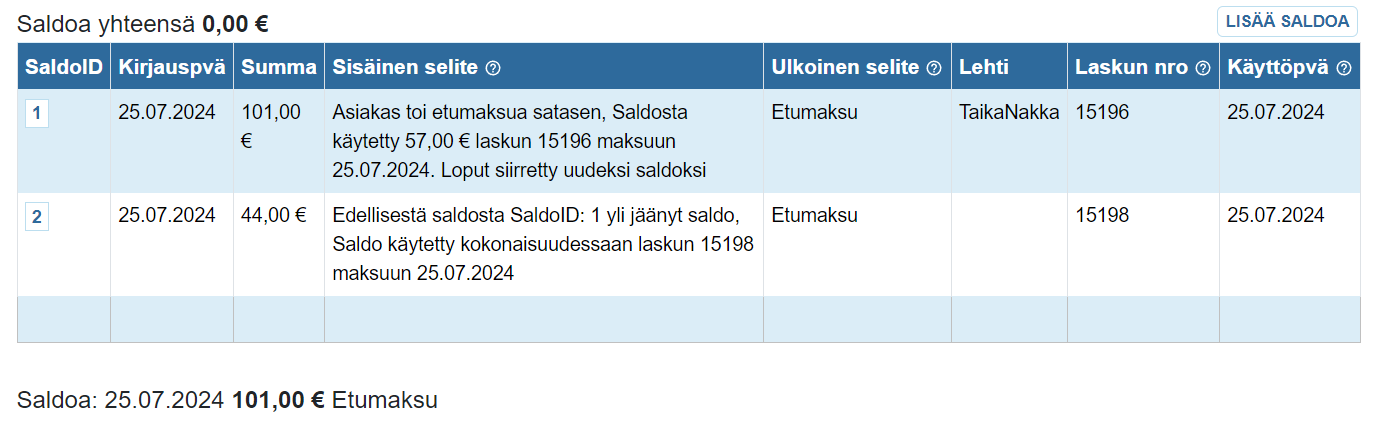
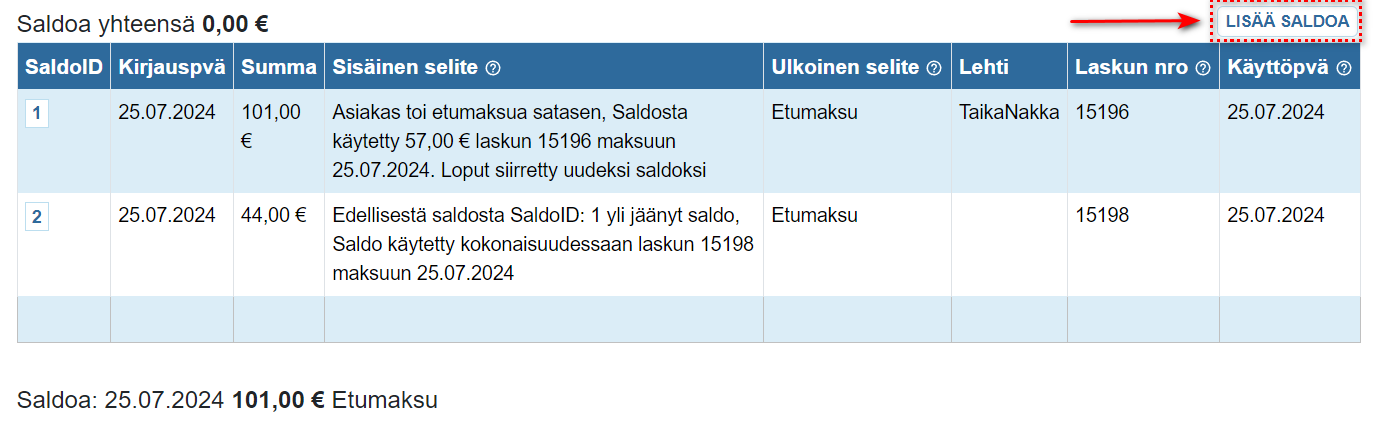
saldon lisäys pikaohje

Changed region(s): [[0.779, 0.0, 0.9971, 0.1226]]

diff --git a/docs/pikaohjeet/saldo.md b/docs/pikaohjeet/saldo.md
@@ -1,0 +1,26 @@
+---
+sidebar_position: 23
+---
+
+# Saldon lisääminen asiakkaalle
+
+### 1. Hae asiakas etusivunäkymältä
+
+![1. Etusivunäkymä](/img/pikaohjeet/hakuehto.png)
+
+### 2. Paina Asiakastiedot-kentässä olevaa kynäikonia
+
+![2. Asiakastiedot](/img/pikaohjeet/Valiaikainenosoite2.png)
+
+### 3. Laskutustiedot-alavalikossa paina Lisää saldoa -painiketta
+
+![3. Asiakaskortti - Laskutustiedot](/img/ohjeet/saldo-lask.png)
+
+### 4. Täytä saldon summa, lehti ja muut lisätiedot
+
+![4. Saldon lisääminen](/img/ohjeet/saldo-lis2.png)
+
+### 5. Lisätty saldo näkyy asiakkaan tietojen koontisivulla
+
+![5. Asiakastiedot](/img/ohjeet/saldonmaar.png)
+
